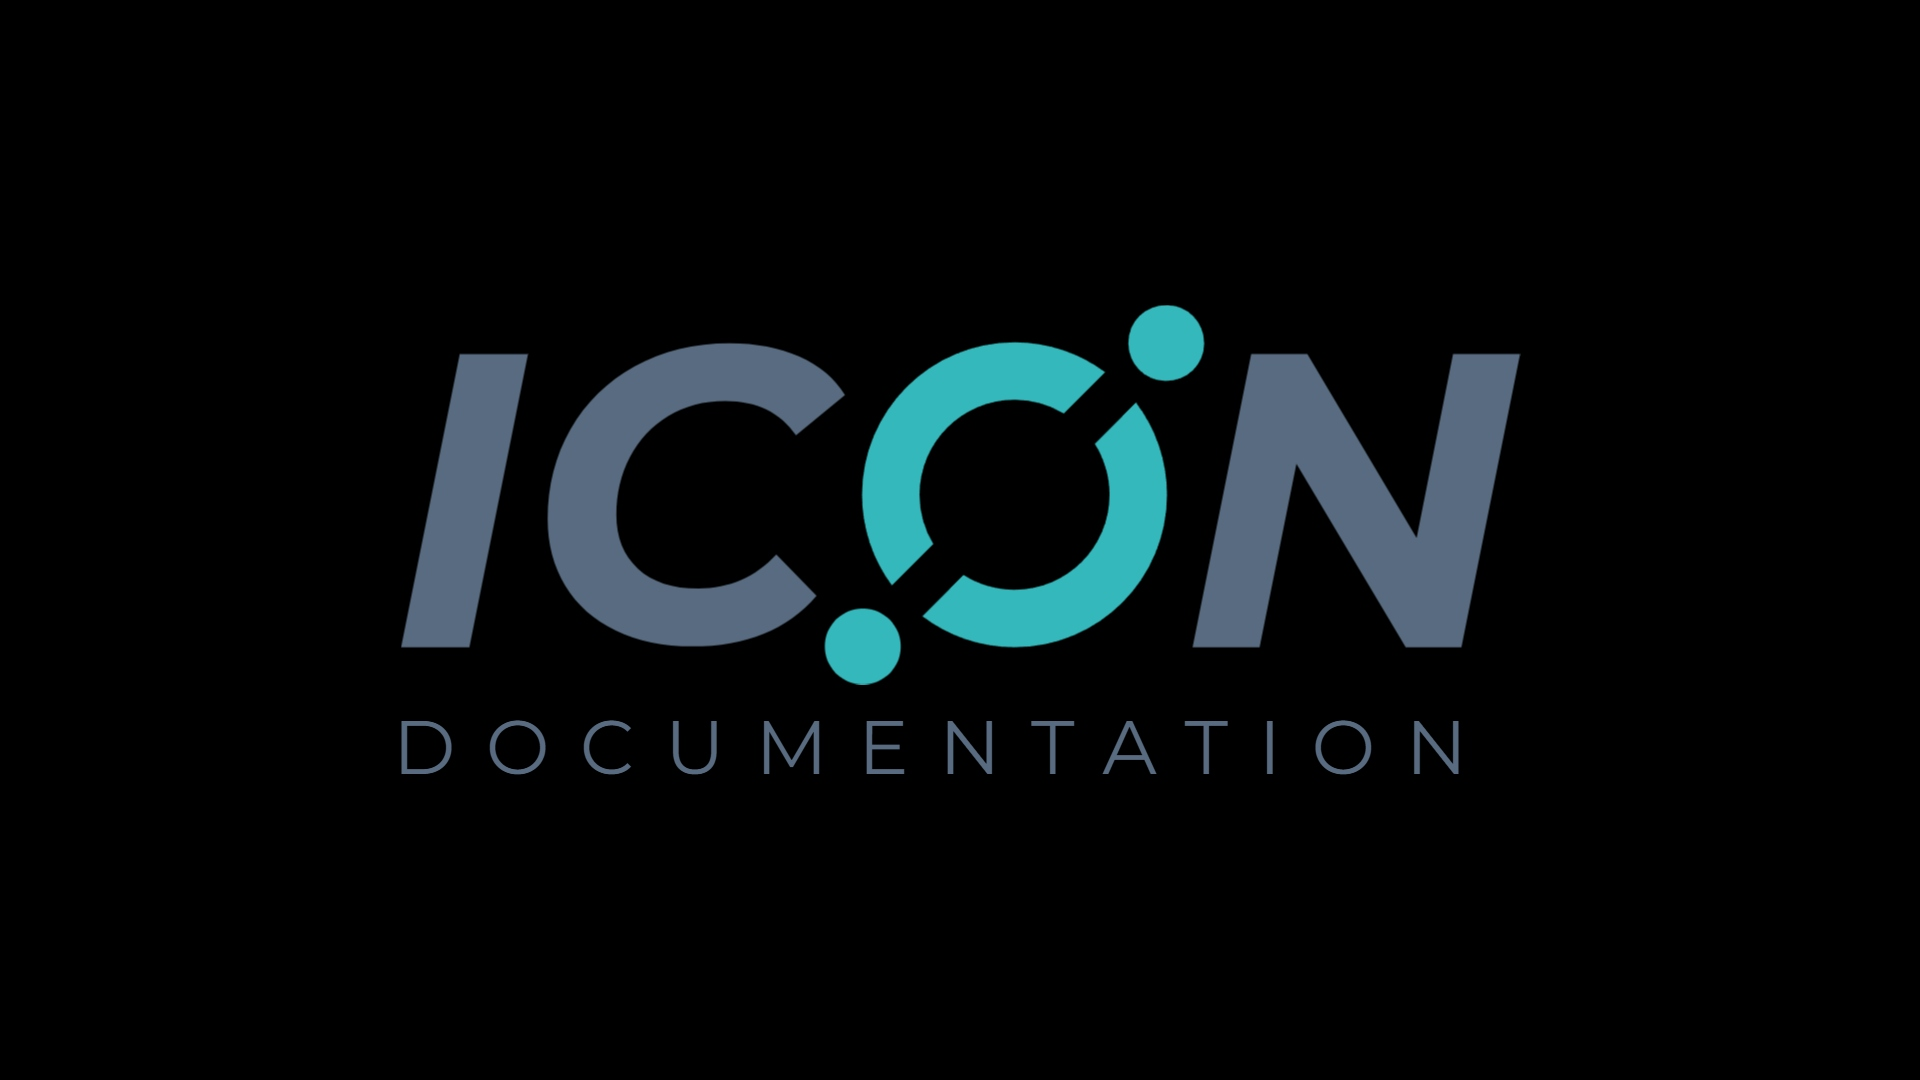
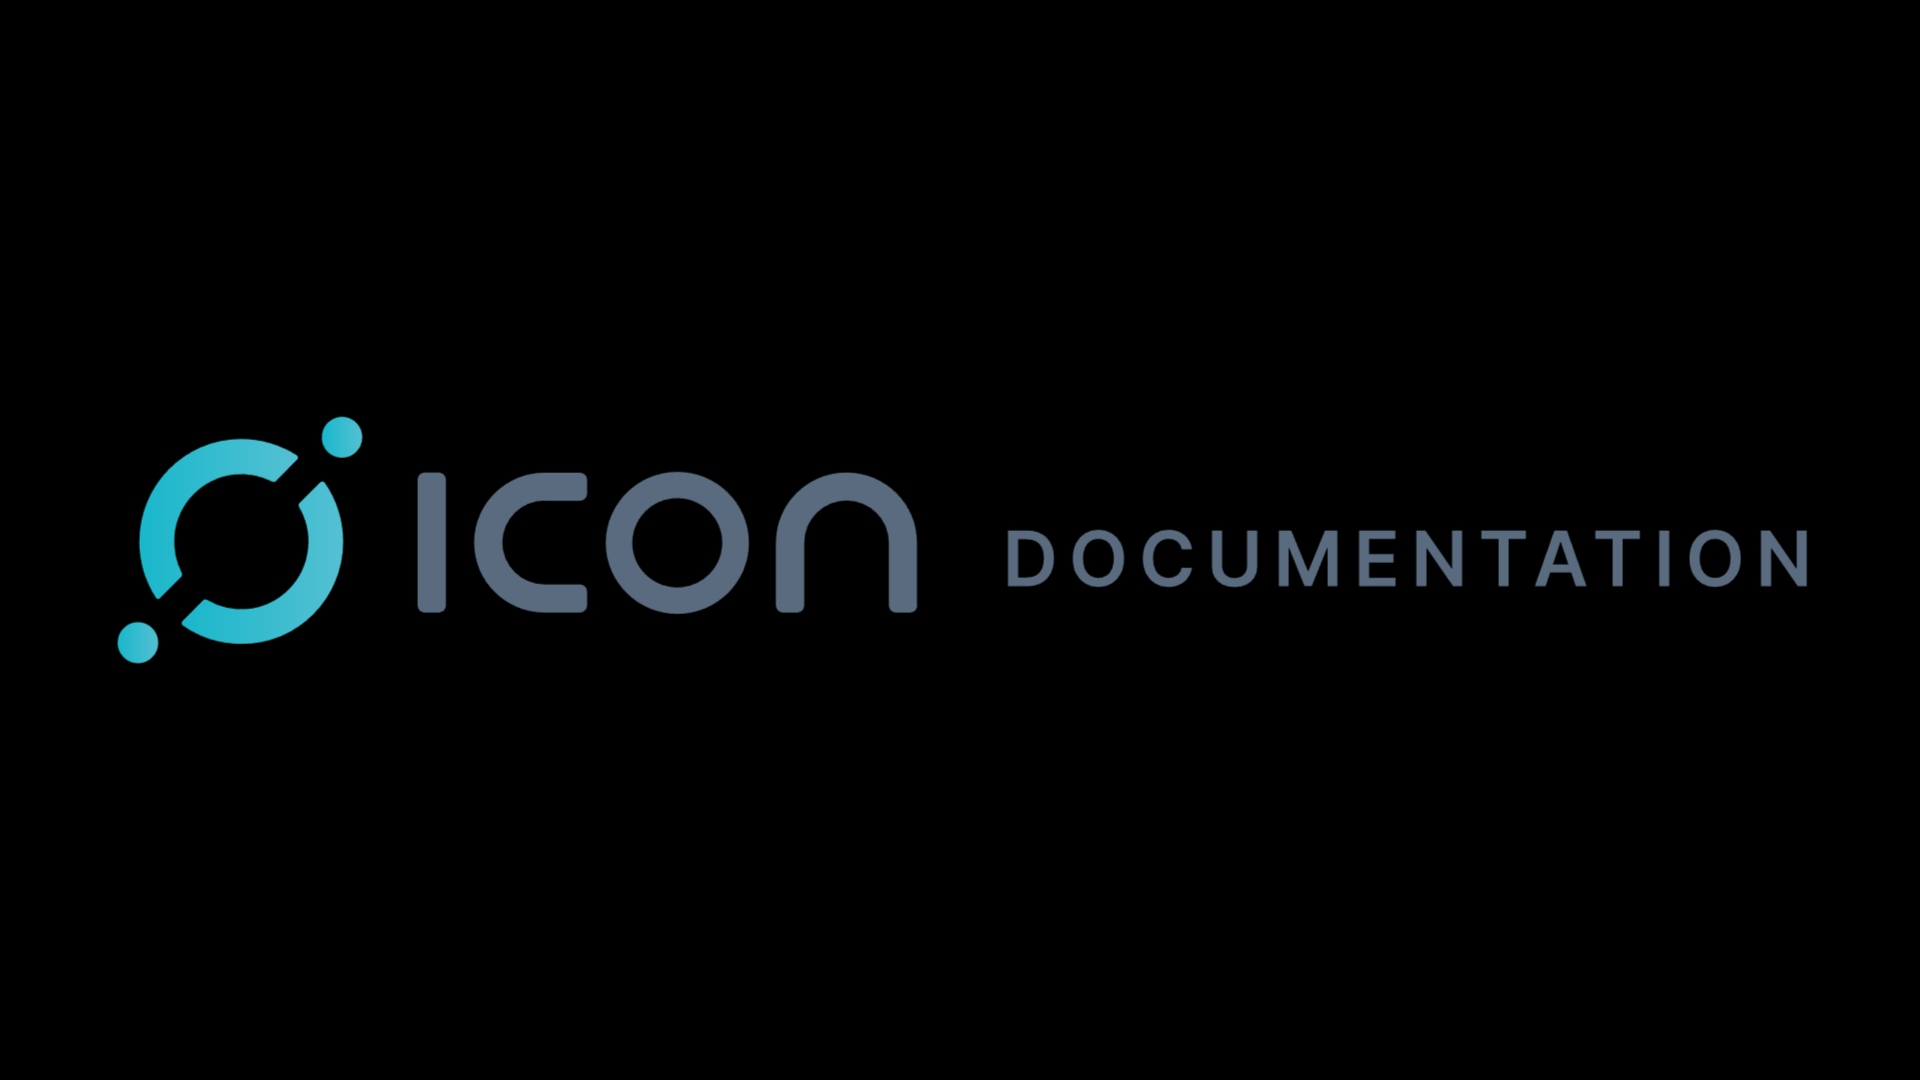
Upddate

diff --git a/README.md b/README.md
@@ -1,4 +1,4 @@
-<img src="https://www.docs.icon.community/images/icon-documentation-over-white.svg" width="300">
+<img src="/images/icon-documentation-over-white.svg" width="300">
 
 [![Discord](https://img.shields.io/discord/880651922682560582?logo=discord)](https://discord.gg/b5QvCXJjJM)
 [![Twitter Follow](https://img.shields.io/twitter/follow/helloiconworld?style=social)](https://twitter.com/helloiconworld)
@@ -7,7 +7,7 @@
 [![Issues](https://img.shields.io/github/issues/icon-project/xcall.dev)](https://github.com/icon-project/xcall.dev/issues)
 [![Pull Requests](https://img.shields.io/github/issues-pr/icon-project/xcall.dev)](https://github.com/icon-project/xcall.dev/pulls)
 
-# Welcome to XCALL.DEV
+# Welcome to ICON DOCUMENTATION
 
 Welcome to the official documentation site for xCall! 
 
